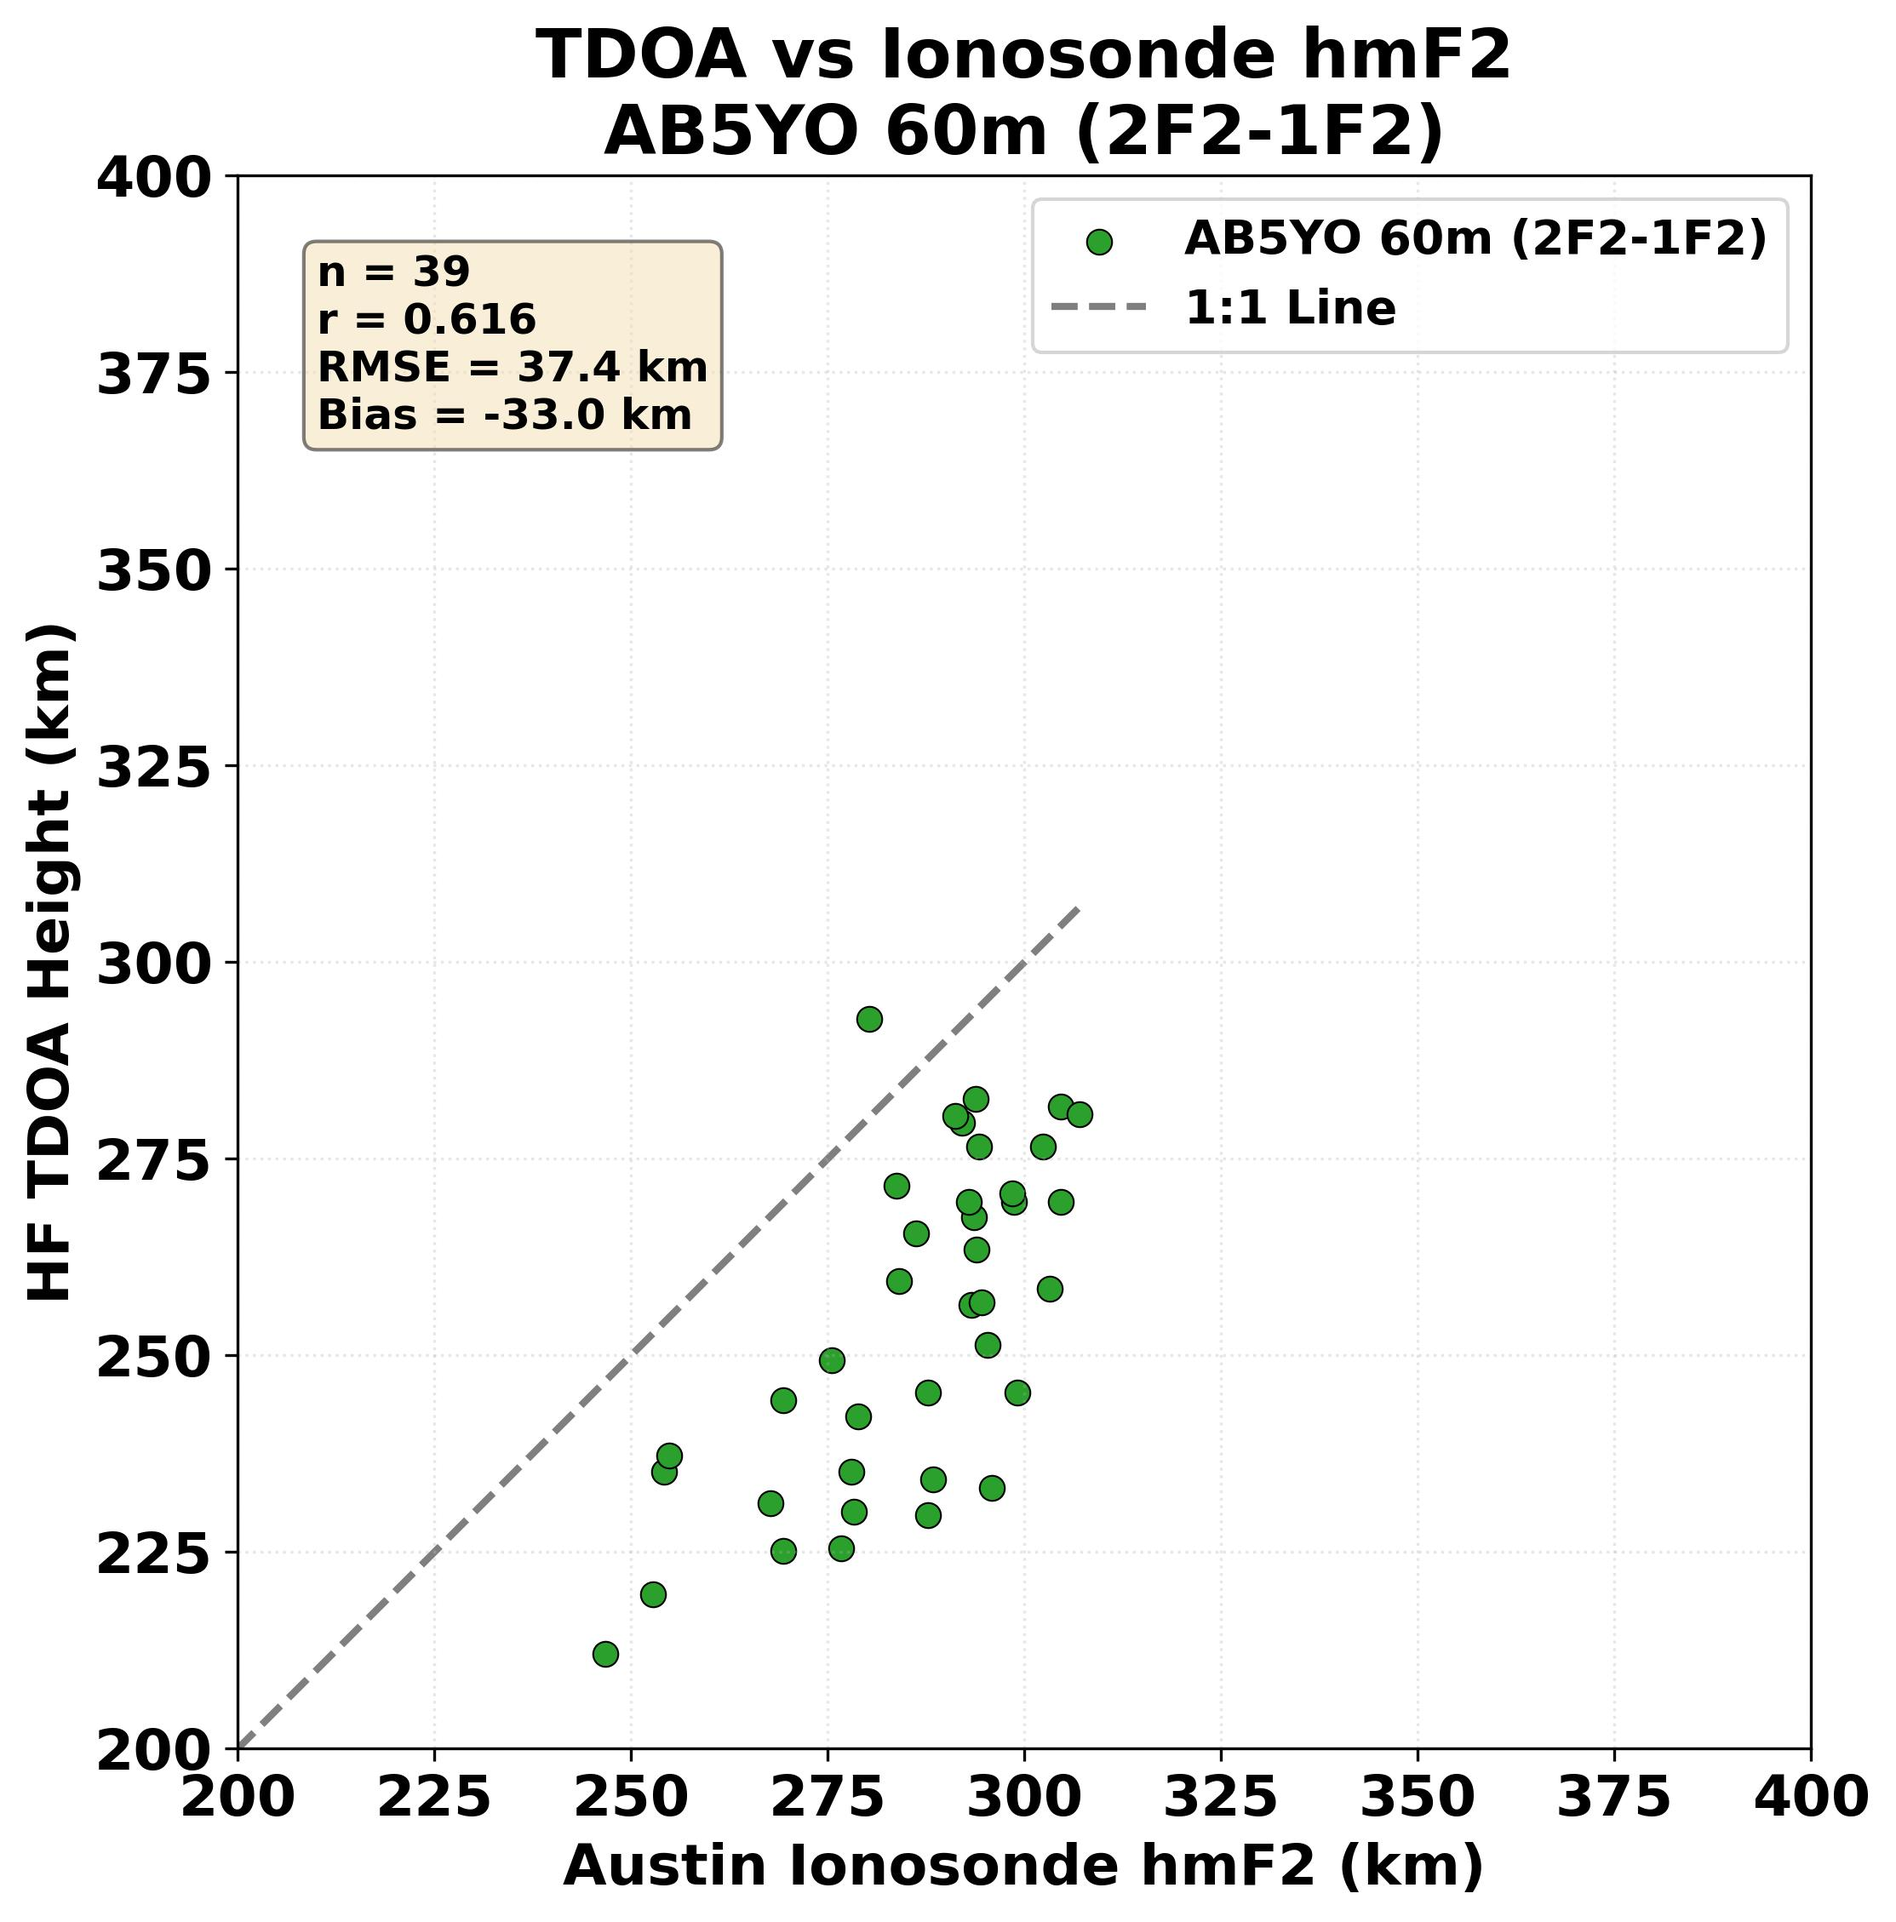
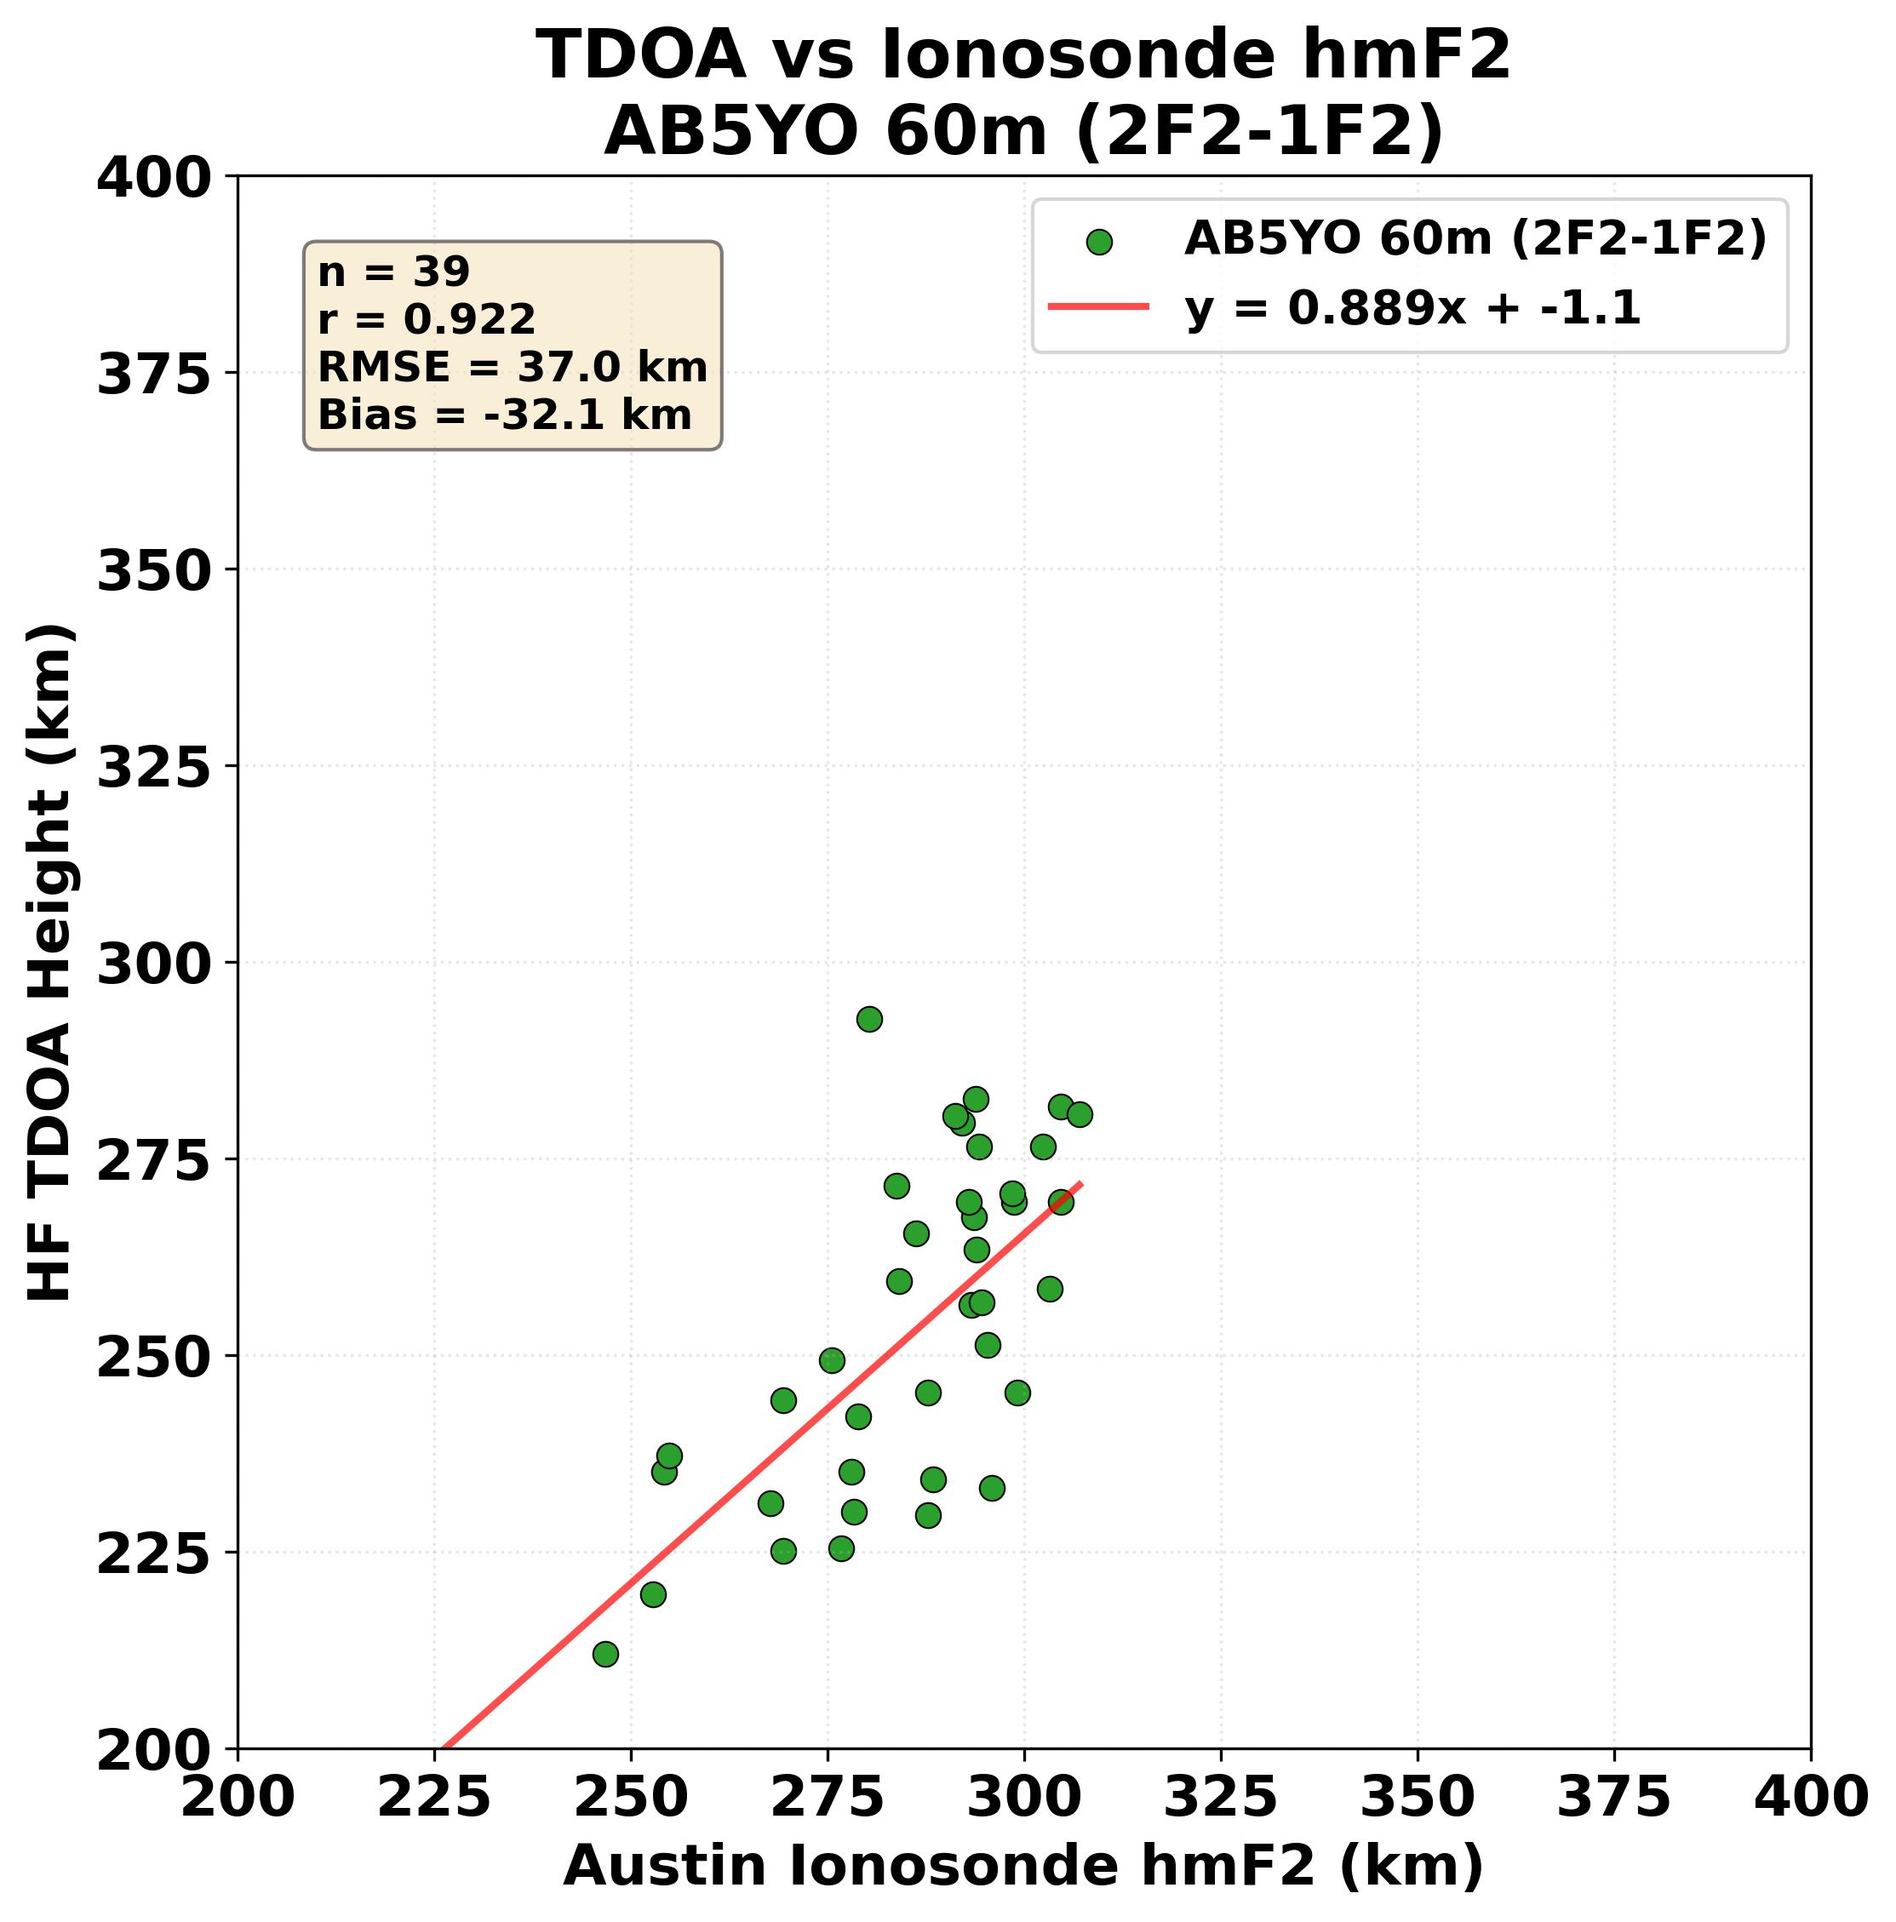
add regression line and origin

diff --git a/hf_tdoa/hf_tdoa_lib.py b/hf_tdoa/hf_tdoa_lib.py
@@ -2541,7 +2541,7 @@ def align_and_resample_data(tdoa_df, ionosonde_df, resample_rule='1min', method=
 def plot_scatter_comparison(tdoa_height, ionosonde_hmf2, label, color,
                              ax=None, marker='o', s=50, alpha=1.0,
                              show_1to1=True, show_stats=True, edgecolor='black', zorder=None,
-                             linewidths=None, include_origin=False):
+                             linewidths=None, include_origin=False, show_regression=False):
     """
     Create scatter plot comparing TDOA heights with ionosonde hmF2.
 
@@ -2575,6 +2575,8 @@ def plot_scatter_comparison(tdoa_height, ionosonde_hmf2, label, color,
         Line width for line-based markers like 'x', '+', etc. (default: None, uses 0.5 for edgecolors)
     include_origin : bool, optional
         Include the point (0,0) in regression line and statistics calculations (default: False)
+    show_regression : bool, optional
+        Show linear regression line with formula (default: False)
 
     Returns:
     --------
@@ -2631,13 +2633,19 @@ def plot_scatter_comparison(tdoa_height, ionosonde_hmf2, label, color,
         rmse_percent = (rmse / np.mean(iono_stats)) * 100
         bias_percent = (bias / np.mean(iono_stats)) * 100
 
+        # Calculate linear regression: y = mx + b
+        # Using iono_stats (x-axis) to predict tdoa_stats (y-axis)
+        slope, intercept = np.polyfit(iono_stats, tdoa_stats, 1)
+
         stats = {
             'correlation': correlation,
             'rmse': rmse,
             'bias': bias,
             'rmse_percent': rmse_percent,
             'bias_percent': bias_percent,
-            'n_points': len(tdoa_valid)  # Keep original count (without origin)
+            'n_points': len(tdoa_valid),  # Keep original count (without origin)
+            'slope': slope,
+            'intercept': intercept
         }
 
     # Add 1:1 reference line
@@ -2648,12 +2656,24 @@ def plot_scatter_comparison(tdoa_height, ionosonde_hmf2, label, color,
         ]
         ax.plot(lims, lims, 'k--', alpha=0.5, linewidth=2, label='1:1 Line', zorder=1)
 
+    # Add linear regression line if requested and stats are available
+    if show_regression and stats and 'slope' in stats:
+        lims = [
+            np.min([ax.get_xlim()[0], ax.get_ylim()[0]]),
+            np.max([ax.get_xlim()[1], ax.get_ylim()[1]]),
+        ]
+        x_reg = np.array(lims)
+        y_reg = stats['slope'] * x_reg + stats['intercept']
+        ax.plot(x_reg, y_reg, 'r-', alpha=0.7, linewidth=2,
+               label=f"y = {stats['slope']:.3f}x + {stats['intercept']:.1f}", zorder=2)
+
     return ax, stats
 
 
 def create_scatter_plot_figure(datasets, ionosonde_df,
                                  individual_plots=True, combined_plot=True,
-                                 output_dir=None, include_origin=False):
+                                 output_dir=None, include_origin=False, show_regression=False,
+                                 show_1to1=True):
     """
     Create scatter plots comparing multiple TDOA datasets with ionosonde hmF2.
 
@@ -2675,6 +2695,10 @@ def create_scatter_plot_figure(datasets, ionosonde_df,
         Directory to save plots. If None, displays only.
     include_origin : bool, optional
         Include the point (0,0) in regression line and statistics calculations (default: False)
+    show_regression : bool, optional
+        Show linear regression line with formula (default: False)
+    show_1to1 : bool, optional
+        Show 1:1 reference line (default: True)
 
     Returns:
     --------
@@ -2701,7 +2725,9 @@ def create_scatter_plot_figure(datasets, ionosonde_df,
                 color=dataset['color'],
                 marker=dataset.get('marker', 'o'),
                 ax=ax,
-                include_origin=include_origin
+                include_origin=include_origin,
+                show_regression=show_regression,
+                show_1to1=show_1to1
             )
 
             # Add labels and title
@@ -2762,8 +2788,9 @@ def create_scatter_plot_figure(datasets, ionosonde_df,
                 color=dataset['color'],
                 marker=dataset.get('marker', 'o'),
                 ax=ax_scatter,
-                show_1to1=False,  # Don't show 1:1 line
-                include_origin=include_origin
+                show_1to1=show_1to1,
+                include_origin=include_origin,
+                show_regression=show_regression
             )
 
             results[dataset['label']] = stats
@@ -2876,7 +2903,7 @@ def create_scatter_plot_figure(datasets, ionosonde_df,
     return results
 
 
-def create_manual_vs_automated_scatter_figure(manual_datasets, automated_datasets, ionosonde_df, filepath=None, include_origin=False):
+def create_manual_vs_automated_scatter_figure(manual_datasets, automated_datasets, ionosonde_df, filepath=None, include_origin=False, show_regression=False, show_1to1=False):
     """
     Create a 2-row figure comparing manual and automated TDOA analysis methods.
 
@@ -2900,6 +2927,10 @@ def create_manual_vs_automated_scatter_figure(manual_datasets, automated_dataset
         Full path to save the output figure (including filename)
     include_origin : bool, optional
         Include the point (0,0) in regression line and statistics calculations (default: False)
+    show_regression : bool, optional
+        Show linear regression line with formula (default: False)
+    show_1to1 : bool, optional
+        Show 1:1 reference line (default: False)
 
     Returns
     -------
@@ -2943,8 +2974,9 @@ def create_manual_vs_automated_scatter_figure(manual_datasets, automated_dataset
             zorder=dataset.get('zorder', None),
             linewidths=dataset.get('linewidths', None),
             ax=ax_manual_scatter,
-            show_1to1=False,
-            include_origin=include_origin
+            show_1to1=show_1to1,
+            include_origin=include_origin,
+            show_regression=show_regression
         )
 
         results['manual'][dataset['label']] = stats
@@ -3068,8 +3100,9 @@ def create_manual_vs_automated_scatter_figure(manual_datasets, automated_dataset
             zorder=dataset.get('zorder', None),
             linewidths=dataset.get('linewidths', None),
             ax=ax_auto_scatter,
-            show_1to1=False,
-            include_origin=include_origin
+            show_1to1=show_1to1,
+            include_origin=include_origin,
+            show_regression=show_regression
         )
 
         results['automated'][dataset['label']] = stats
